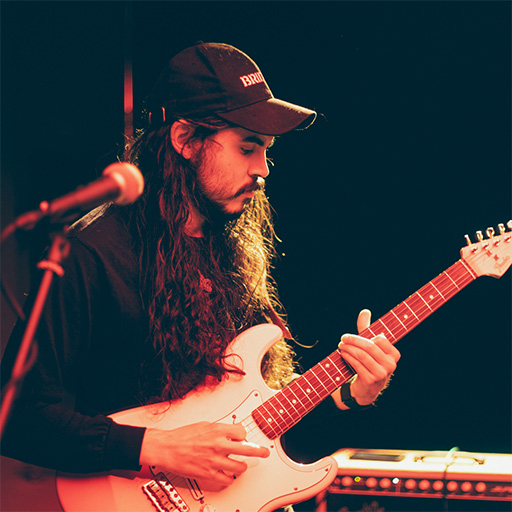
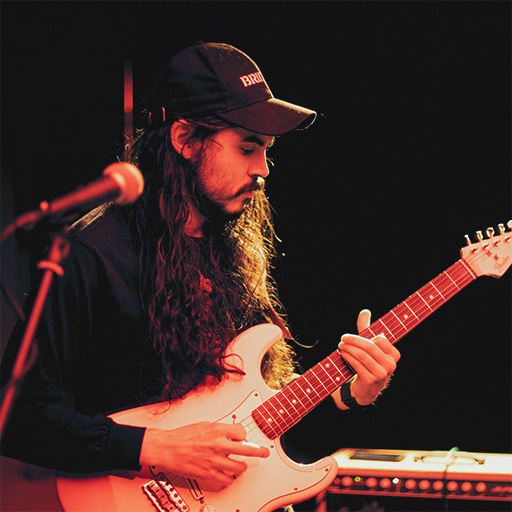
Tweaks to design and optimizing photos

diff --git a/components/PhotoBio.js b/components/PhotoBio.js
@@ -1,6 +1,7 @@
 import Image from 'next/image';
 import LogoShwarma from './SVG/LogoShwarma';
 import SocialLinks from "@components/SocialLinks";
+import BandMembersList from './BandMembersList';
 
 function PhotoBio({ headingFirst, headingSecond, bandMembers }) {
   return (
@@ -9,13 +10,16 @@ function PhotoBio({ headingFirst, headingSecond, bandMembers }) {
         <LogoShwarma className="h-32 w-auto mx-auto"/>
         <SocialLinks />
 
-        <Image
-          src="/images/shwarma-band-collage.jpg"
-          width="954"
-          height="620"
-          alt="shwarma playing live at toads tavern"
-          className="main-photo rounded-3xl shadow-md mx-auto"
-        />
+        <div>
+          <Image
+            src="/images/shwarma-band-collage.jpg"
+            width="954"
+            height="620"
+            alt="shwarma playing live at toads tavern"
+            className="main-photo rounded-3xl shadow-md mx-auto"
+          />
+          <BandMembersList />
+        </div>
 
 
         <div className="font-light text-white text-xl max-w-lg mx-auto flex flex-col justify-center">

diff --git a/components/MusicReleases.js b/components/MusicReleases.js
@@ -15,22 +15,22 @@ function MusicReleases() {
   }
 
   return (
-    <div className="px-3 md:px-0 pb-10">
+    <div>
       <h2 className="heading font-heading">Music Releases</h2>
       <ul className="grid sm:grid-cols-2 md:grid-cols-3 lg:grid-cols-4 xl:grid-cols-5 gap-6">
         {releases.map((release) => (
-          <li className="pb-5" key={release.name}>
+          <li className="" key={release.name}>
             <div className="text-center mb-4">
               <button
                 onClick={() => openBandcampEmbedWindow(release.embedID)}
                 type="button"
-                className="rounded-xl"
+                className="rounded-lg"
               >
                 <Image
                   src={release.image}
                   height="512"
                   width="512"
-                  className="rounded-xl shadow-lg cursor-pointer"
+                  className="rounded-lg shadow-lg cursor-pointer"
                   alt={`${release.name} album cover`}
                   loading="lazy"
                 />

diff --git a/components/BandMembersList.jsx b/components/BandMembersList.jsx
@@ -1,22 +1,16 @@
 import React from 'react'
+import bandMembers from '@data/bandMembers'
 
 const BandMembersList = () => {
   return (
     <div>
-        <h2 className="heading font-heading">Members</h2>
+        {/* <h2 className="heading font-heading">Members</h2> */}
         {bandMembers
         && (
-        <ul className="text-white">
+        <ul className="text-xs md:text-sm lg:text-xs xl:text-sm flex justify-center mt-2 text-brand font-light flex-wrap">
           {bandMembers.map((member) => (
-            <li key={member.name}>
-              <strong>{member.name}</strong>
-              {' '}
-              <small>
-                {' '}
-                –
-                {' '}
-                {member.role}
-              </small>
+            <li key={member.name} className="mr-2">
+              {member.name}
             </li>
           ))}
         </ul>

diff --git a/components/GalleryPhotos.js b/components/GalleryPhotos.js
@@ -44,18 +44,18 @@ function PhotoSlider() {
   };
 
   return (
-    <div className="photo-gallery py-5 px-3 md:px-0">
-      <h2 className="heading font-heading mb-3">Photo Gallery</h2>
+    <div className="mb-10 -mx-3">
+      <h2 className="heading font-heading px-3">Photo Gallery</h2>
       <div className="slider">
         <Slider {...settings}>
           {photos.map((photo) => (
             <div
-              className="slide p-3"
+              className="slide px-3 focus-visible:outline-none"
               key={photo.label}
             >
               <Image
                 src={photo.path}
-                className="rounded-xl w-full"
+                className="rounded-lg w-full"
                 alt={photo.label}
                 loading="lazy"
                 width="512"

diff --git a/components/LatestVideos.jsx b/components/LatestVideos.jsx
@@ -9,9 +9,9 @@ const LatestVideos = () => {
   // }, []);
 
   return (
-    <div className="py-10 px-3 md:px-0">
+    <div className="py-10">
       <h2 className="heading font-heading mb-5">Latest Videos</h2>
-      <div className="w-full grid grid-cols-2 gap-6">
+      <div className="w-full grid sm:grid-cols-2 gap-6">
         <div>
         <iframe
           width="100%"

diff --git a/styles/index.css b/styles/index.css
@@ -34,7 +34,7 @@ p {
   }
 
   .video-16-9 {
-    @apply h-[320px] lg:h-[280px] xl:h-[430px];
+    @apply h-[220px] lg:h-[320px] xl:h-[430px];
   }
 }
 
